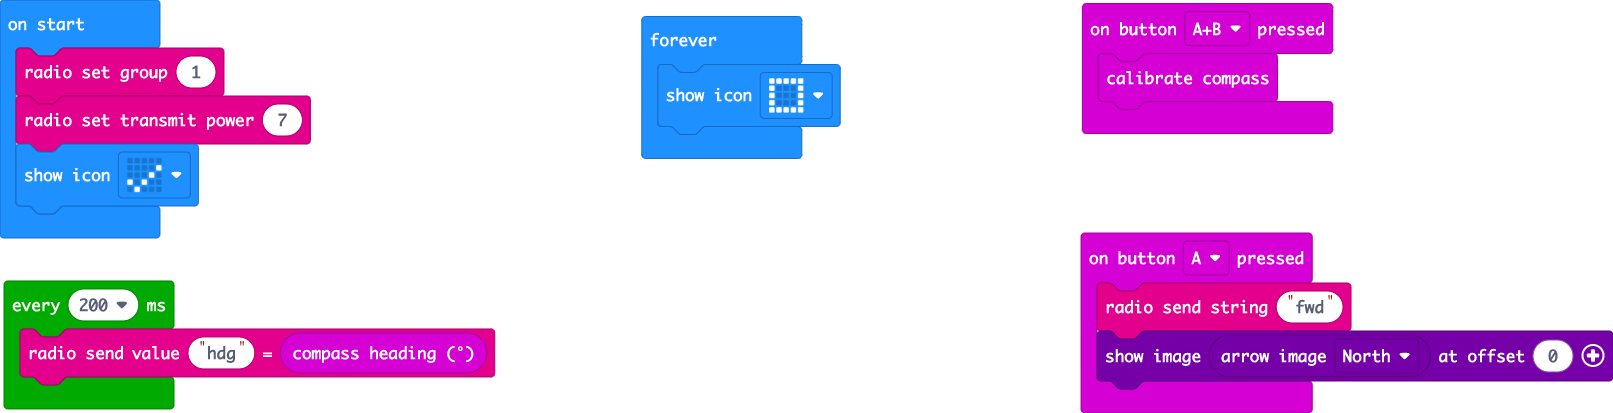
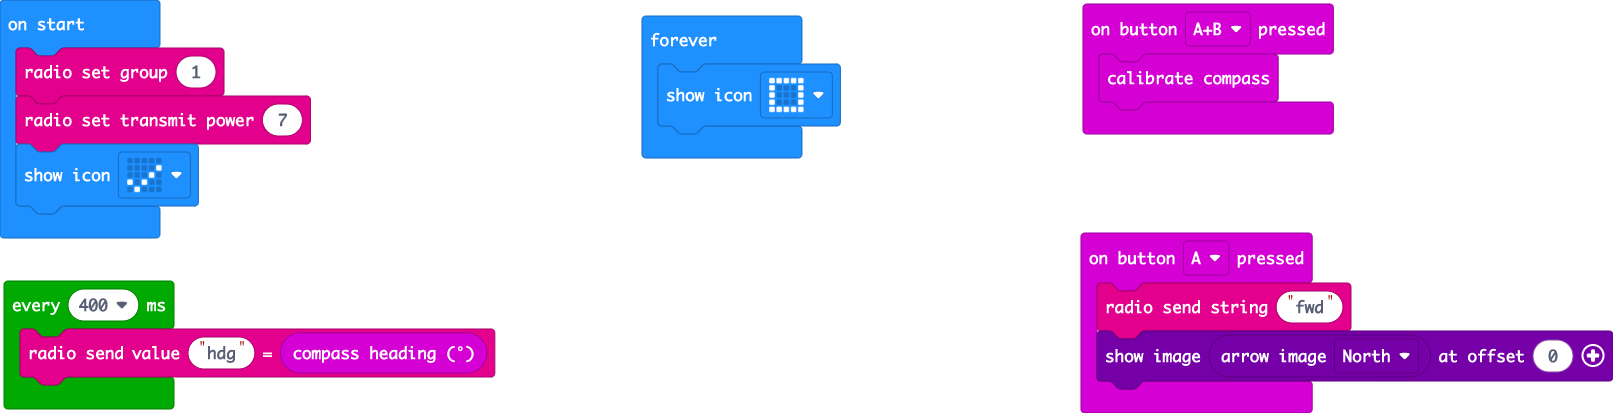
Update main.blocks, main.ts

diff --git a/main.ts b/main.ts
@@ -11,6 +11,6 @@ basic.showIcon(IconNames.Yes)
 basic.forever(function () {
     basic.showIcon(IconNames.Square)
 })
-loops.everyInterval(200, function () {
+loops.everyInterval(400, function () {
     radio.sendValue("hdg", input.compassHeading())
 })
